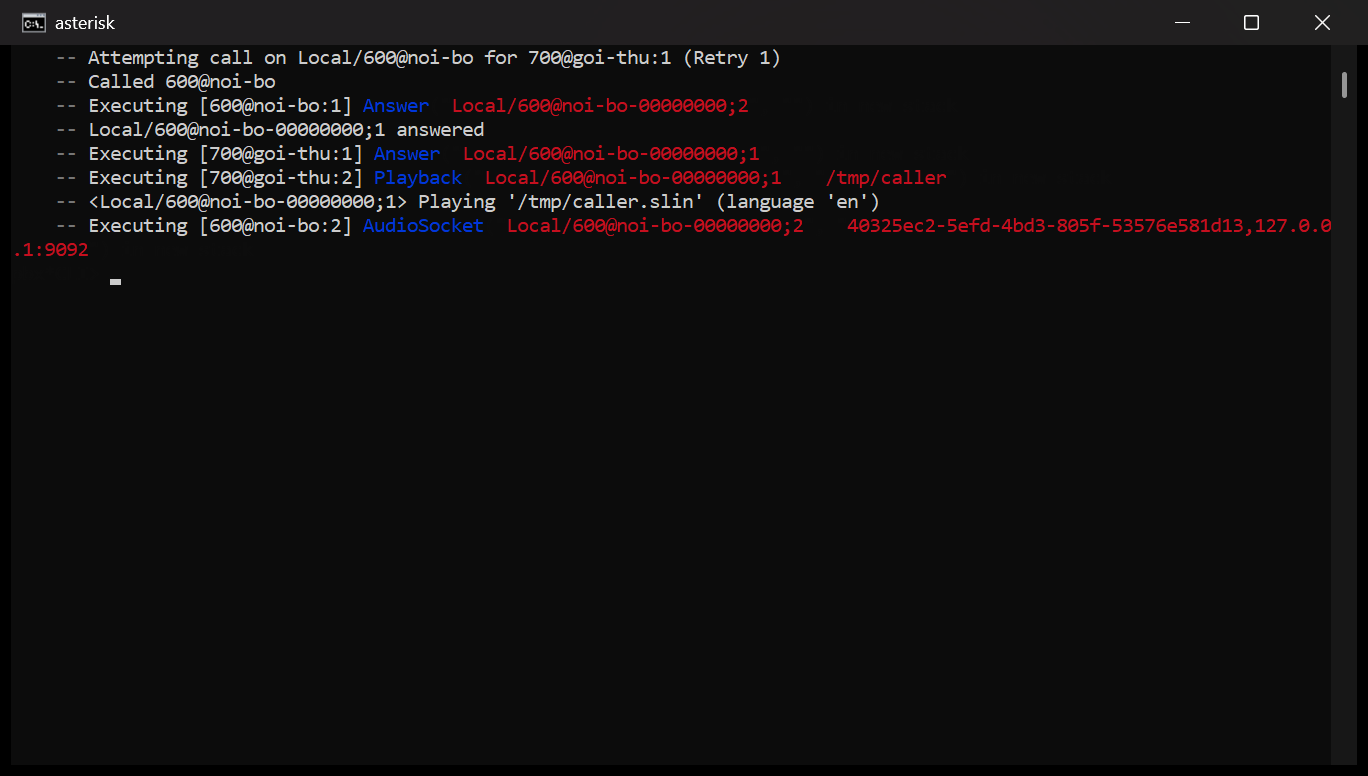
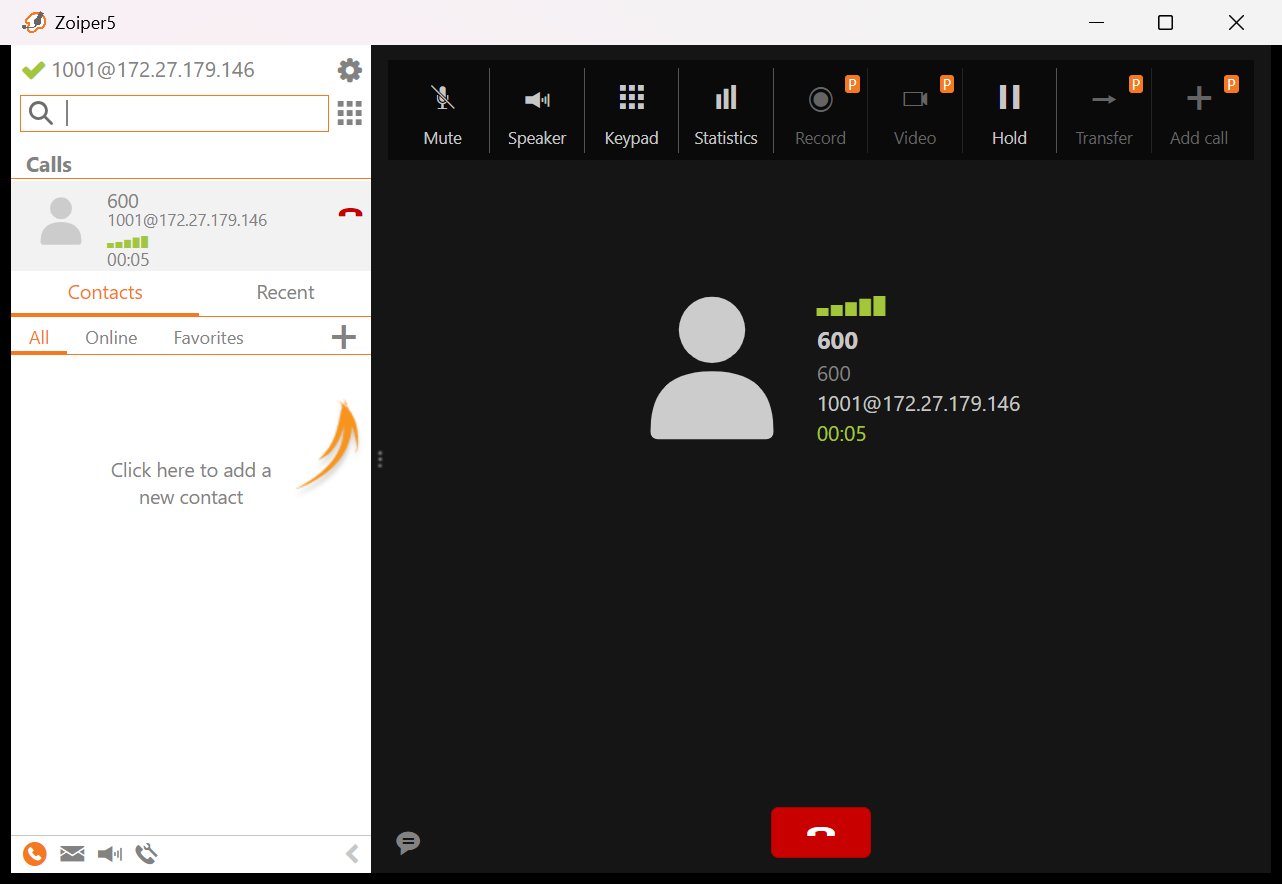
Show the call from Zoiper

diff --git a/README.md b/README.md
@@ -13,7 +13,7 @@ Zoiper --SIP--> Asterisk (Docker) --AudioSocket TCP--> switchboard.py
 
 A call to 600 with three questions. The caller's voice is synthesised with Piper and played into the call by Asterisk; everything after that is the switchboard running live.
 
-![Asterisk connecting the call to the switchboard](docs/call.png)
+![Zoiper in a call to 600](docs/call.png)
 
 ![Switchboard log: what it heard, what it understood, what it said](docs/conversation.png)
 
